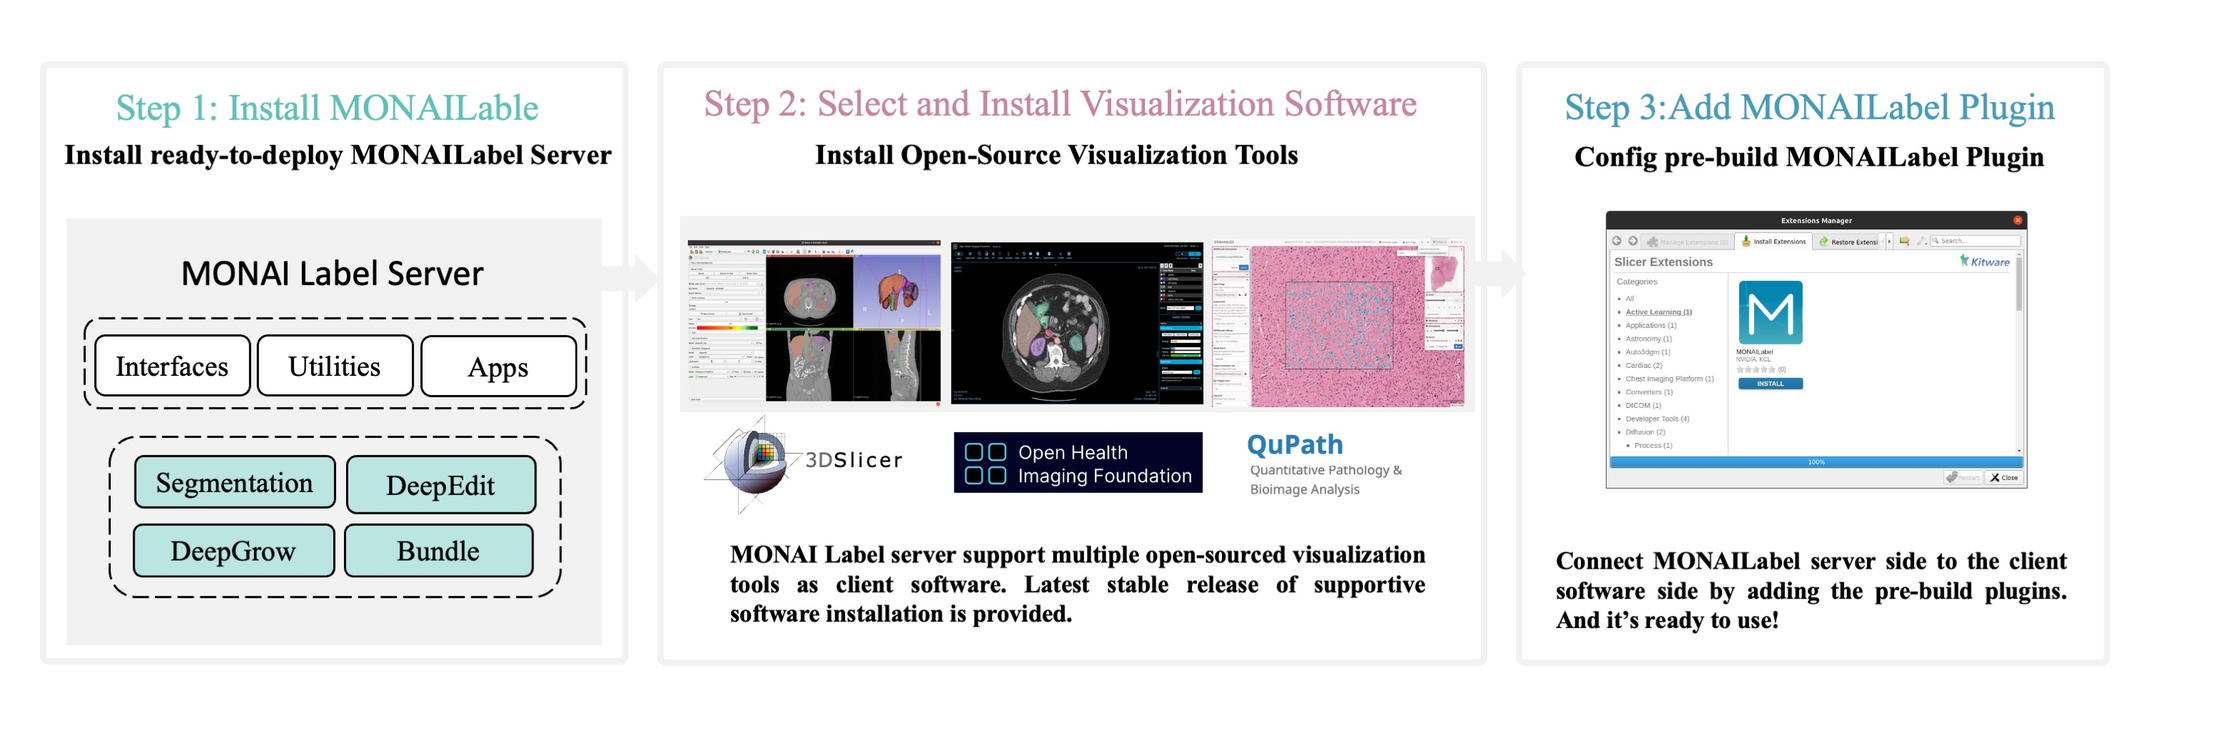
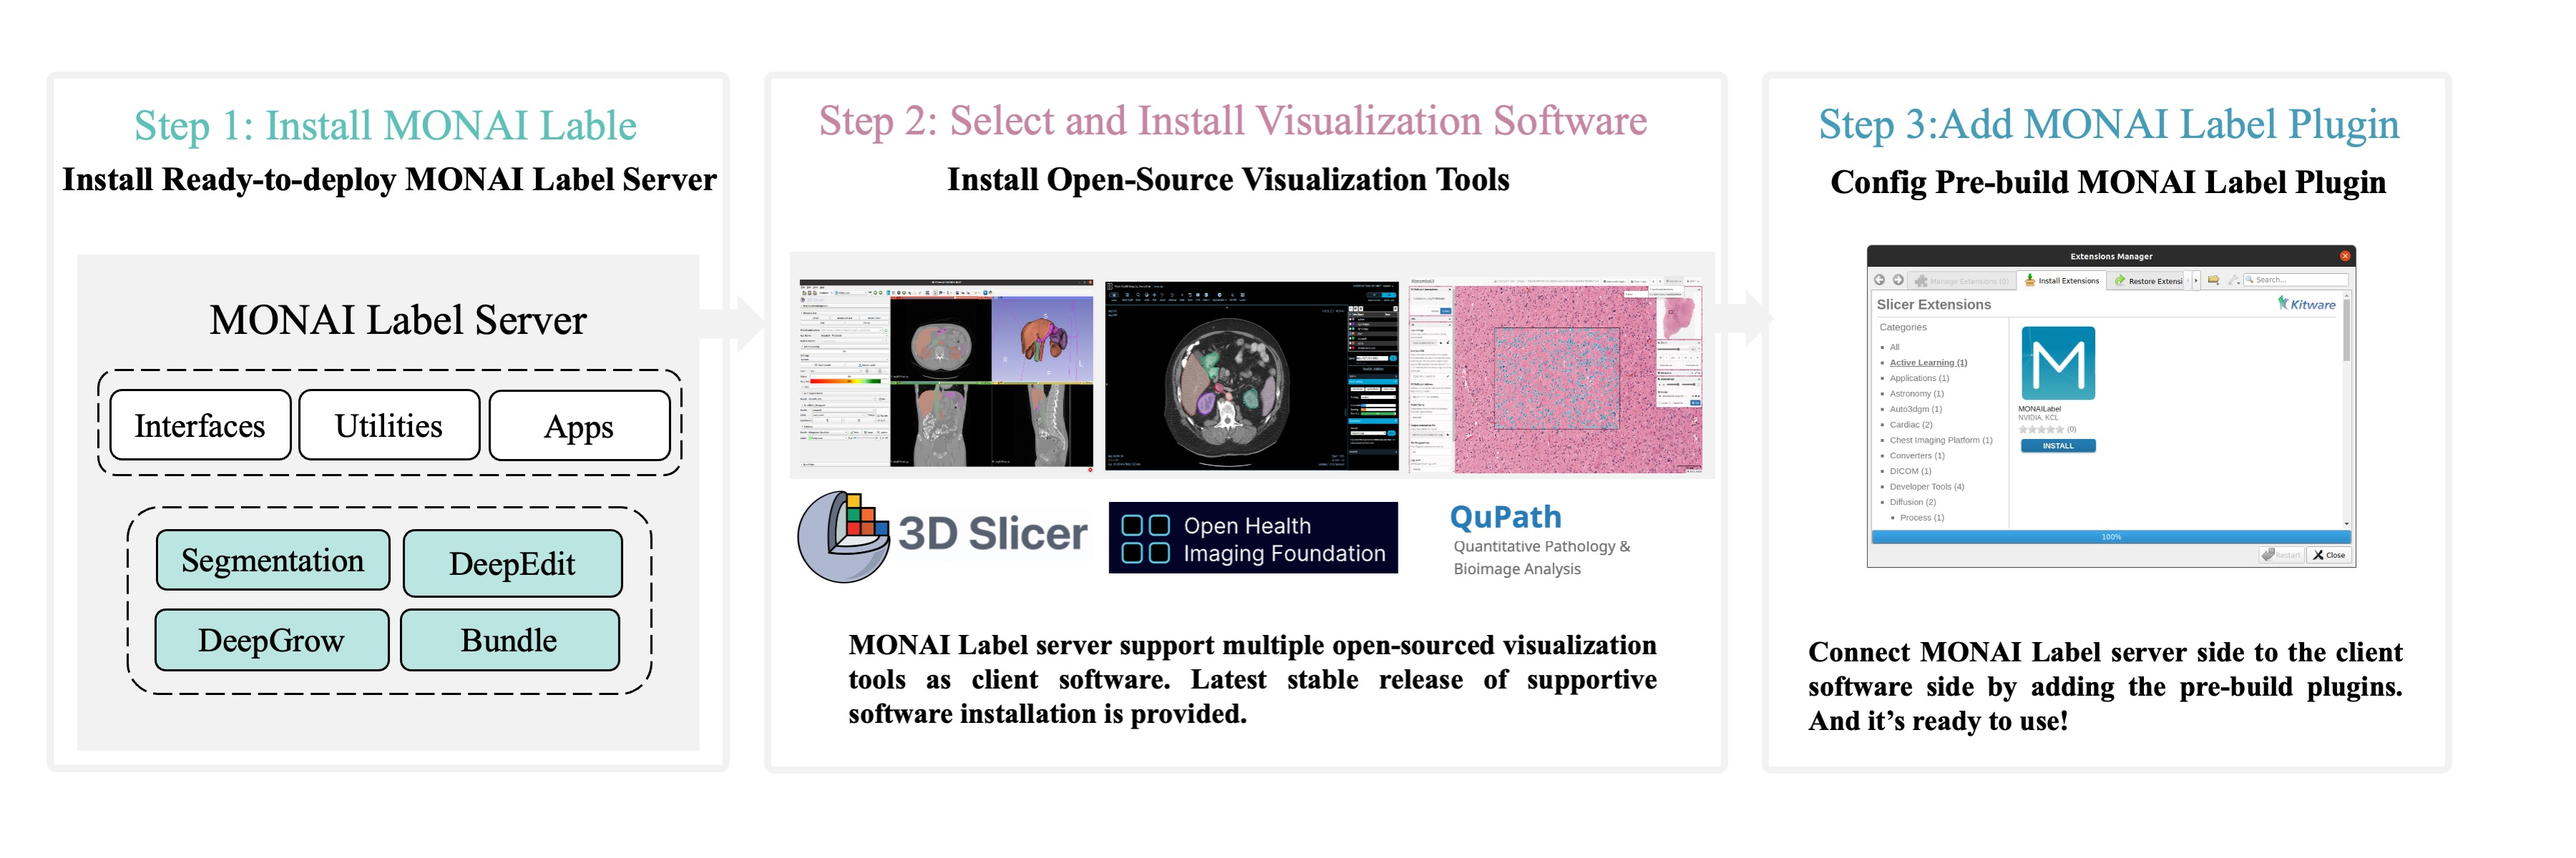
817 comment modification

diff --git a/docs/source/installation.rst b/docs/source/installation.rst
@@ -12,11 +12,11 @@ Current Milestone Release of MONAI Label:
 
 MONAI Label Supported Stable Visualization Tools:
 
-* 3D Slicer: `Version 5.0.3 <https://download.slicer.org/>`_
+* 3D Slicer: `Stable and Preview Version >= 5.0 <https://download.slicer.org/>`_
 
-* OHIF: `Version 3.1 <https://ohif.org/>`_
+* OHIF: `Version >= 3.1 <https://ohif.org/>`_
 
-* QuPath: `Version 0.3.2 <https://qupath.github.io/>`_
+* QuPath: `Version >= 0.3.2 <https://qupath.github.io/>`_
 
 Start using MONAI Label with just three steps!
 
@@ -25,13 +25,13 @@ Start using MONAI Label with just three steps!
   :alt: MONAI Label Instllation steps
 
 
---------------- `Install MONAI Lable`_  -------------------- `Guide of Visualization Tools`_ ------------------------ `Add Plugins`_ -----------------
+--------------- `Install MONAI Label`_  -------------------- `Guide of Visualization Tools`_ ------------------------ `Add Plugins`_ -----------------
 
 
 
-Install MONAI Lable
+Install MONAI Label
 ==================
-.. _Monailable:
+.. _Monailabel:
 
 Prerequisites
 ---------------
